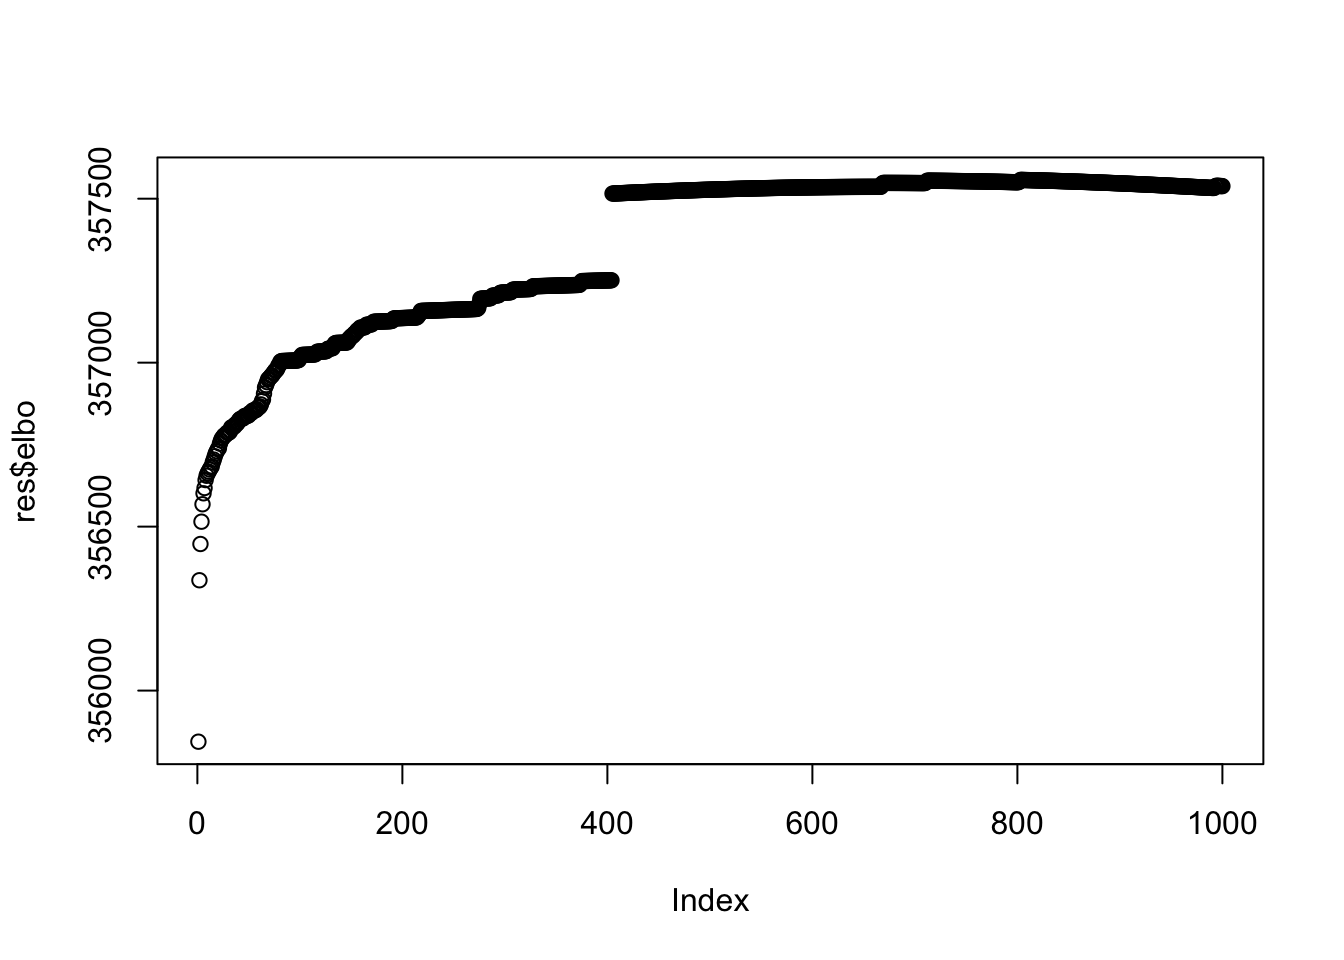
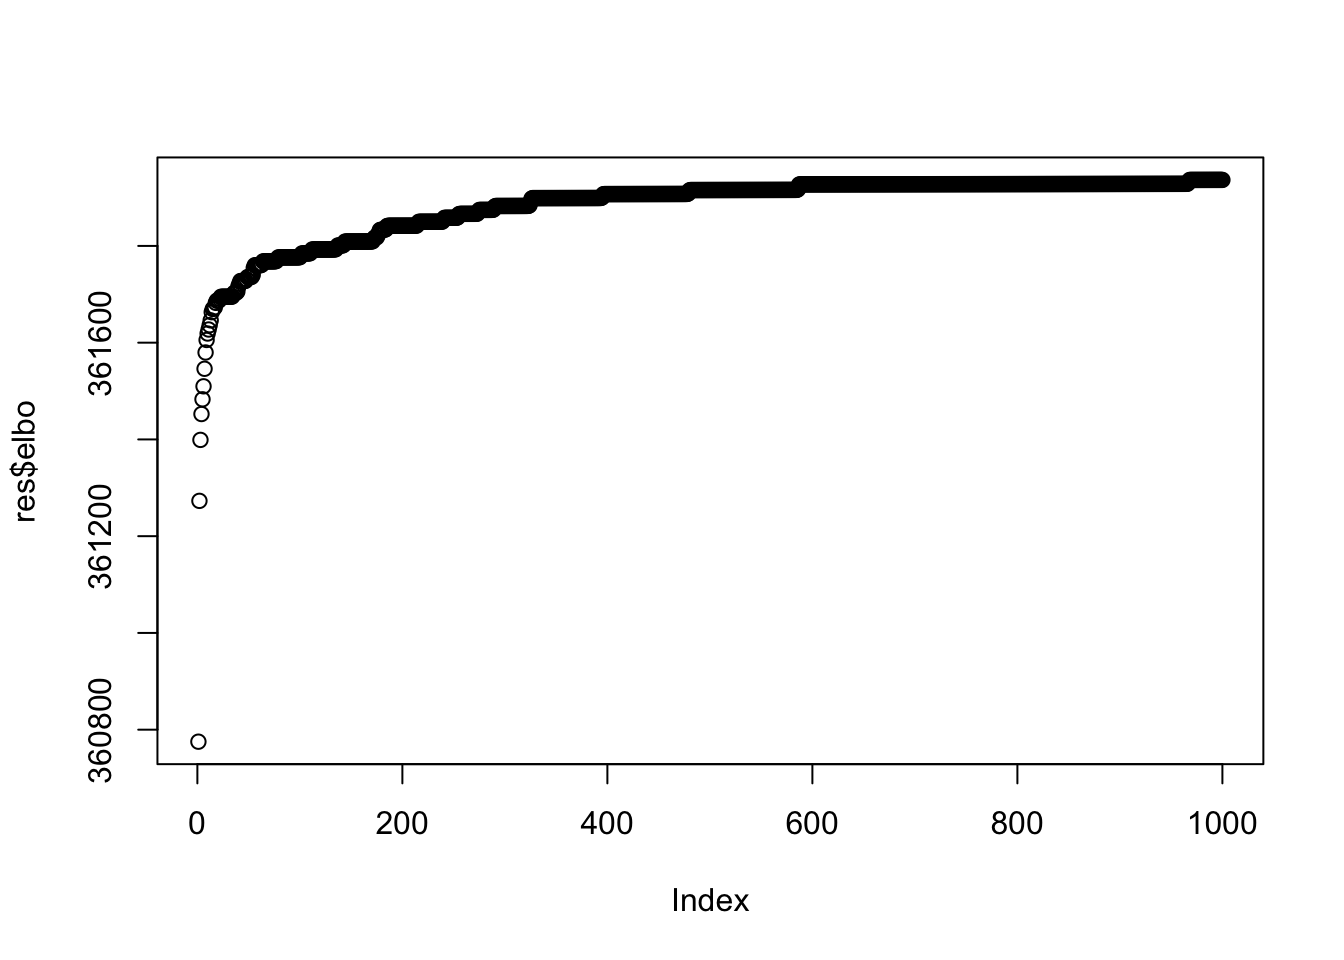
Build site.

diff --git a/docs/ica_vs_flash_r1_update_1.html b/docs/ica_vs_flash_r1_update_1.html
@@ -521,15 +521,15 @@ project makes it easier to run your code on other machines.</p>
 <div class="panel panel-default">
 <div class="panel-heading">
 <p class="panel-title">
-<a data-toggle="collapse" data-parent="#workflowr-checks" href="#strongRepositoryversionstrongahrefhttpsgithubcomjunmingguanmisctree12e9d2e0e11e3e0b40115306183bee0a3ff96821targetblank12e9d2ea">
+<a data-toggle="collapse" data-parent="#workflowr-checks" href="#strongRepositoryversionstrongahrefhttpsgithubcomjunmingguanmisctreea060fec05abab76062d122ceca87d791731cb9cbtargetblanka060feca">
 <span class="glyphicon glyphicon-ok text-success"
 aria-hidden="true"></span> <strong>Repository version:</strong>
-<a href="https://github.com/junmingguan/misc/tree/12e9d2e0e11e3e0b40115306183bee0a3ff96821" target="_blank">12e9d2e</a>
+<a href="https://github.com/junmingguan/misc/tree/a060fec05abab76062d122ceca87d791731cb9cb" target="_blank">a060fec</a>
 </a>
 </p>
 </div>
 <div
[2 lines of base64/hex data omitted]
 class="panel-collapse collapse">
 <div class="panel-body">
 <p>
@@ -539,7 +539,7 @@ reproducibility.
 </p>
 <p>
 The results in this page were generated with repository version
-<a href="https://github.com/junmingguan/misc/tree/12e9d2e0e11e3e0b40115306183bee0a3ff96821" target="_blank">12e9d2e</a>.
+<a href="https://github.com/junmingguan/misc/tree/a060fec05abab76062d122ceca87d791731cb9cb" target="_blank">a060fec</a>.
 See the <em>Past versions</em> tab to see a history of the changes made
 to the R Markdown and HTML files.
 </p>
@@ -605,6 +605,40 @@ Message
 </tr>
 </thead>
 <tbody>
+<tr>
+<td>
+Rmd
+</td>
+<td>
+<a href="https://github.com/junmingguan/misc/blob/a060fec05abab76062d122ceca87d791731cb9cb/analysis/ica_vs_flash_r1_update_1.Rmd" target="_blank">a060fec</a>
+</td>
+<td>
+junmingguan
+</td>
+<td>
+2025-11-13
+</td>
+<td>
+wflow_publish(c("analysis/ica_vs_flash_r1_update_1.Rmd"))
+</td>
+</tr>
+<tr>
+<td>
+html
+</td>
+<td>
+<a href="https://rawcdn.githack.com/junmingguan/misc/cd608b661a7c14f4837d398130983d1578f44482/docs/ica_vs_flash_r1_update_1.html" target="_blank">cd608b6</a>
+</td>
+<td>
+junmingguan
+</td>
+<td>
+2025-11-13
+</td>
+<td>
+Build site.
+</td>
+</tr>
 <tr>
 <td>
 Rmd
@@ -786,7 +820,7 @@ r1_update &lt;- function(Y, lambda, sigma_init, g_init, fix_param = FALSE, max_i
   for (i in 1:max_iter) {
     if (fix_param) {
       M &lt;- svt(Y - l %*% t(f), lambda * sigma_init^2)
-      flash_res &lt;- flash_init(Y - M, S = sigma_init) |&gt; 
+      flash_res &lt;- flash_init(Y - M, S = sigma_init, var_type = NULL) |&gt; 
         flash_factors_init(init = list(l, f), 
                            ebnm_fn = c(
                              flash_ebnm(prior_family = &#39;normal_scale_mixture&#39;, g_init = g_init[[1]], fix_g = TRUE), 
@@ -946,21 +980,23 @@ id="rank-1-update-with-rank-constraint-on-the-residual-matrix-with-prior-and-sig
 class="section level3">
 <h3>rank-1 update with rank constraint on the residual matrix with prior
 and <span class="math inline">\(\sigma^2\)</span> fixed</h3>
-<pre class="r"><code>res &lt;- r1_update(G, 10/eps, sigma_init=eps, g_init = g_init, fix_param = TRUE, max_iter = 1000)
+<div id="lambda0.1" class="section level4">
+<h4><span class="math inline">\(\lambda=0.1\)</span></h4>
+<pre class="r"><code>res &lt;- r1_update(G, 0.1, sigma_init=eps, g_init = g_init, fix_param = TRUE, max_iter = 1000)
 cor(X, res$l)</code></pre>
-<pre><code>             [,1]
- [1,] -0.06100314
- [2,] -0.55698064
- [3,] -0.42629704
- [4,] -0.08939524
- [5,]  0.07031006
- [6,] -0.10348440
- [7,] -0.02259008
- [8,]  0.38278879
- [9,]  0.08108598
-[10,] -0.19462796</code></pre>
-<div id="elbo" class="section level4">
-<h4>ELBO</h4>
+<pre><code>              [,1]
+ [1,] -0.034115831
+ [2,] -0.173460351
+ [3,] -0.241840479
+ [4,] -0.042322137
+ [5,]  0.038182188
+ [6,] -0.079955581
+ [7,] -0.002200763
+ [8,]  0.211198318
+ [9,] -0.018742223
+[10,] -0.084001132</code></pre>
+<div id="elbo" class="section level5">
+<h5>ELBO</h5>
 <pre class="r"><code>plot(res$elbo)</code></pre>
 <p><img src="figure/ica_vs_flash_r1_update_1.Rmd/unnamed-chunk-9-1.png" width="672" style="display: block; margin: auto;" /></p>
 <p>
@@ -987,6 +1023,17 @@ Date
 <tbody>
 <tr>
 <td>
+<a href="https://github.com/junmingguan/misc/blob/cd608b661a7c14f4837d398130983d1578f44482/docs/figure/ica_vs_flash_r1_update_1.Rmd/unnamed-chunk-9-1.png" target="_blank">cd608b6</a>
+</td>
+<td>
+junmingguan
+</td>
+<td>
+2025-11-13
+</td>
+</tr>
+<tr>
+<td>
 <a href="https://github.com/junmingguan/misc/blob/f6acacfa68b1a4ce493a77beab84686f8ba324a9/docs/figure/ica_vs_flash_r1_update_1.Rmd/unnamed-chunk-9-1.png" target="_blank">f6acacf</a>
 </td>
 <td>
@@ -1001,9 +1048,9 @@ junmingguan
 </div>
 </div>
 </div>
-<div id="nuclear-norm-of-widehatboldsymbolm" class="section level4">
-<h4>Nuclear norm of <span
-class="math inline">\(\widehat{\boldsymbol{M}}\)</span></h4>
+<div id="nuclear-norm-of-widehatboldsymbolm" class="section level5">
+<h5>Nuclear norm of <span
+class="math inline">\(\widehat{\boldsymbol{M}}\)</span></h5>
 <pre class="r"><code>plot(res$nuc)</code></pre>
 <p><img src="figure/ica_vs_flash_r1_update_1.Rmd/unnamed-chunk-10-1.png" width="672" style="display: block; margin: auto;" /></p>
 <p>
@@ -1030,6 +1077,17 @@ Date
 <tbody>
 <tr>
 <td>
+<a href="https://github.com/junmingguan/misc/blob/cd608b661a7c14f4837d398130983d1578f44482/docs/figure/ica_vs_flash_r1_update_1.Rmd/unnamed-chunk-10-1.png" target="_blank">cd608b6</a>
+</td>
+<td>
+junmingguan
+</td>
+<td>
+2025-11-13
+</td>
+</tr>
+<tr>
+<td>
 <a href="https://github.com/junmingguan/misc/blob/f6acacfa68b1a4ce493a77beab84686f8ba324a9/docs/figure/ica_vs_flash_r1_update_1.Rmd/unnamed-chunk-10-1.png" target="_blank">f6acacf</a>
 </td>
 <td>
@@ -1046,10 +1104,10 @@ junmingguan
 </div>
 <div
 id="fit-term-frac1mtboldsymboly---boldsymbolellboldsymbolftop---boldsymbolm_f2"
-class="section level4">
-<h4>Fit term <span class="math inline">\(\frac{1}{MT}\|\boldsymbol{Y} -
+class="section level5">
+<h5>Fit term <span class="math inline">\(\frac{1}{MT}\|\boldsymbol{Y} -
 \boldsymbol{\ell}\boldsymbol{f}^\top -
-\boldsymbol{M}\|_F^2\)</span></h4>
+\boldsymbol{M}\|_F^2\)</span></h5>
 <pre class="r"><code>plot(res$fit)</code></pre>
 <p><img src="figure/ica_vs_flash_r1_update_1.Rmd/unnamed-chunk-11-1.png" width="672" style="display: block; margin: auto;" /></p>
 <p>
@@ -1076,6 +1134,17 @@ Date
 <tbody>
 <tr>
 <td>
+<a href="https://github.com/junmingguan/misc/blob/cd608b661a7c14f4837d398130983d1578f44482/docs/figure/ica_vs_flash_r1_update_1.Rmd/unnamed-chunk-11-1.png" target="_blank">cd608b6</a>
+</td>
+<td>
+junmingguan
+</td>
+<td>
+2025-11-13
+</td>
+</tr>
+<tr>
+<td>
 <a href="https://github.com/junmingguan/misc/blob/f6acacfa68b1a4ce493a77beab84686f8ba324a9/docs/figure/ica_vs_flash_r1_update_1.Rmd/unnamed-chunk-11-1.png" target="_blank">f6acacf</a>
 </td>
 <td>
@@ -1090,10 +1159,78 @@ junmingguan
 </div>
 </div>
 </div>
-<div id="estimated-standard-errors" class="section level4">
-<h4>Estimated standard errors</h4>
-<pre class="r"><code>plot(res$sigma)</code></pre>
-<p><img src="figure/ica_vs_flash_r1_update_1.Rmd/unnamed-chunk-12-1.png" width="672" style="display: block; margin: auto;" /></p>
+</div>
+<div id="lambda1" class="section level4">
+<h4><span class="math inline">\(\lambda=1\)</span></h4>
+<pre class="r"><code>res &lt;- r1_update(G, 1, sigma_init=eps, g_init = g_init, fix_param = TRUE, max_iter = 1000)
+cor(X, res$l)</code></pre>
+<pre><code>              [,1]
+ [1,] -0.034152510
+ [2,] -0.173731429
+ [3,] -0.241981620
+ [4,] -0.042368935
+ [5,]  0.038194085
+ [6,] -0.079963722
+ [7,] -0.002208645
+ [8,]  0.211329624
+ [9,] -0.018666195
+[10,] -0.084091303</code></pre>
+<div id="elbo-1" class="section level5">
+<h5>ELBO</h5>
+<pre class="r"><code>plot(res$elbo)</code></pre>
+<p><img src="figure/ica_vs_flash_r1_update_1.Rmd/unnamed-chunk-13-1.png" width="672" style="display: block; margin: auto;" /></p>
+</div>
+<div id="nuclear-norm-of-widehatboldsymbolm-1" class="section level5">
+<h5>Nuclear norm of <span
+class="math inline">\(\widehat{\boldsymbol{M}}\)</span></h5>
+<pre class="r"><code>plot(res$nuc)</code></pre>
+<p><img src="figure/ica_vs_flash_r1_update_1.Rmd/unnamed-chunk-14-1.png" width="672" style="display: block; margin: auto;" /></p>
+</div>
+<div
+id="fit-term-frac1mtboldsymboly---boldsymbolellboldsymbolftop---boldsymbolm_f2-1"
+class="section level5">
+<h5>Fit term <span class="math inline">\(\frac{1}{MT}\|\boldsymbol{Y} -
+\boldsymbol{\ell}\boldsymbol{f}^\top -
+\boldsymbol{M}\|_F^2\)</span></h5>
+<pre class="r"><code>plot(res$fit)</code></pre>
+<p><img src="figure/ica_vs_flash_r1_update_1.Rmd/unnamed-chunk-15-1.png" width="672" style="display: block; margin: auto;" /></p>
+</div>
+</div>
+<div id="lambda10" class="section level4">
+<h4><span class="math inline">\(\lambda=10\)</span></h4>
+<pre class="r"><code>res &lt;- r1_update(G, 10, sigma_init=eps, g_init = g_init, fix_param = TRUE, max_iter = 1000)
+cor(X, res$l)</code></pre>
+<pre><code>              [,1]
+ [1,] -0.034575565
+ [2,] -0.176593931
+ [3,] -0.243344640
+ [4,] -0.042859412
+ [5,]  0.038306311
+ [6,] -0.080003612
+ [7,] -0.002477628
+ [8,]  0.212659533
+ [9,] -0.017832460
+[10,] -0.084910214</code></pre>
+<div id="elbo-2" class="section level5">
+<h5>ELBO</h5>
+<pre class="r"><code>plot(res$elbo)</code></pre>
+<p><img src="figure/ica_vs_flash_r1_update_1.Rmd/unnamed-chunk-17-1.png" width="672" style="display: block; margin: auto;" /></p>
+</div>
+<div id="nuclear-norm-of-widehatboldsymbolm-2" class="section level5">
+<h5>Nuclear norm of <span
+class="math inline">\(\widehat{\boldsymbol{M}}\)</span></h5>
+<pre class="r"><code>plot(res$nuc)</code></pre>
+<p><img src="figure/ica_vs_flash_r1_update_1.Rmd/unnamed-chunk-18-1.png" width="672" style="display: block; margin: auto;" /></p>
+</div>
+<div
+id="fit-term-frac1mtboldsymboly---boldsymbolellboldsymbolftop---boldsymbolm_f2-2"
+class="section level5">
+<h5>Fit term <span class="math inline">\(\frac{1}{MT}\|\boldsymbol{Y} -
+\boldsymbol{\ell}\boldsymbol{f}^\top -
+\boldsymbol{M}\|_F^2\)</span></h5>
+<pre class="r"><code>plot(res$fit)</code></pre>
+<p><img src="figure/ica_vs_flash_r1_update_1.Rmd/unnamed-chunk-19-1.png" width="672" style="display: block; margin: auto;" /></p>
+</div>
 </div>
 </div>
 <div id="pure-flashier" class="section level3">
